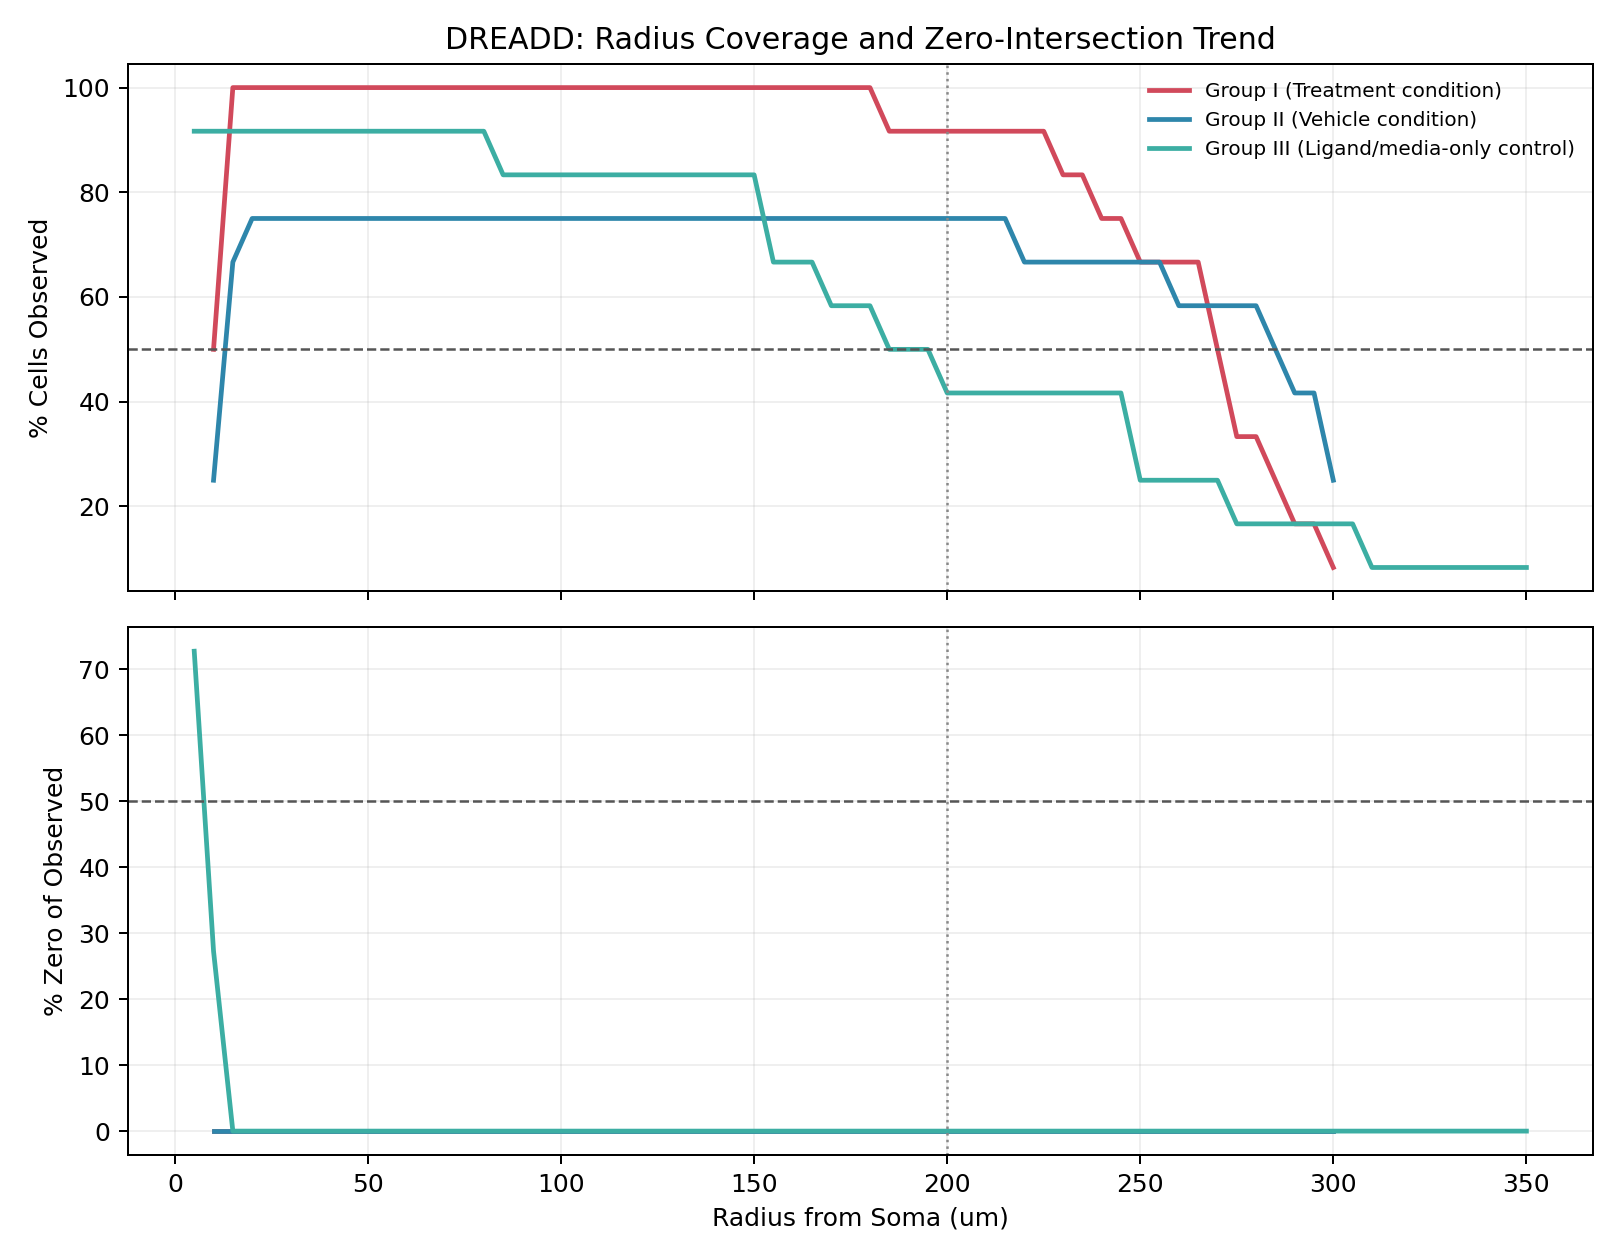
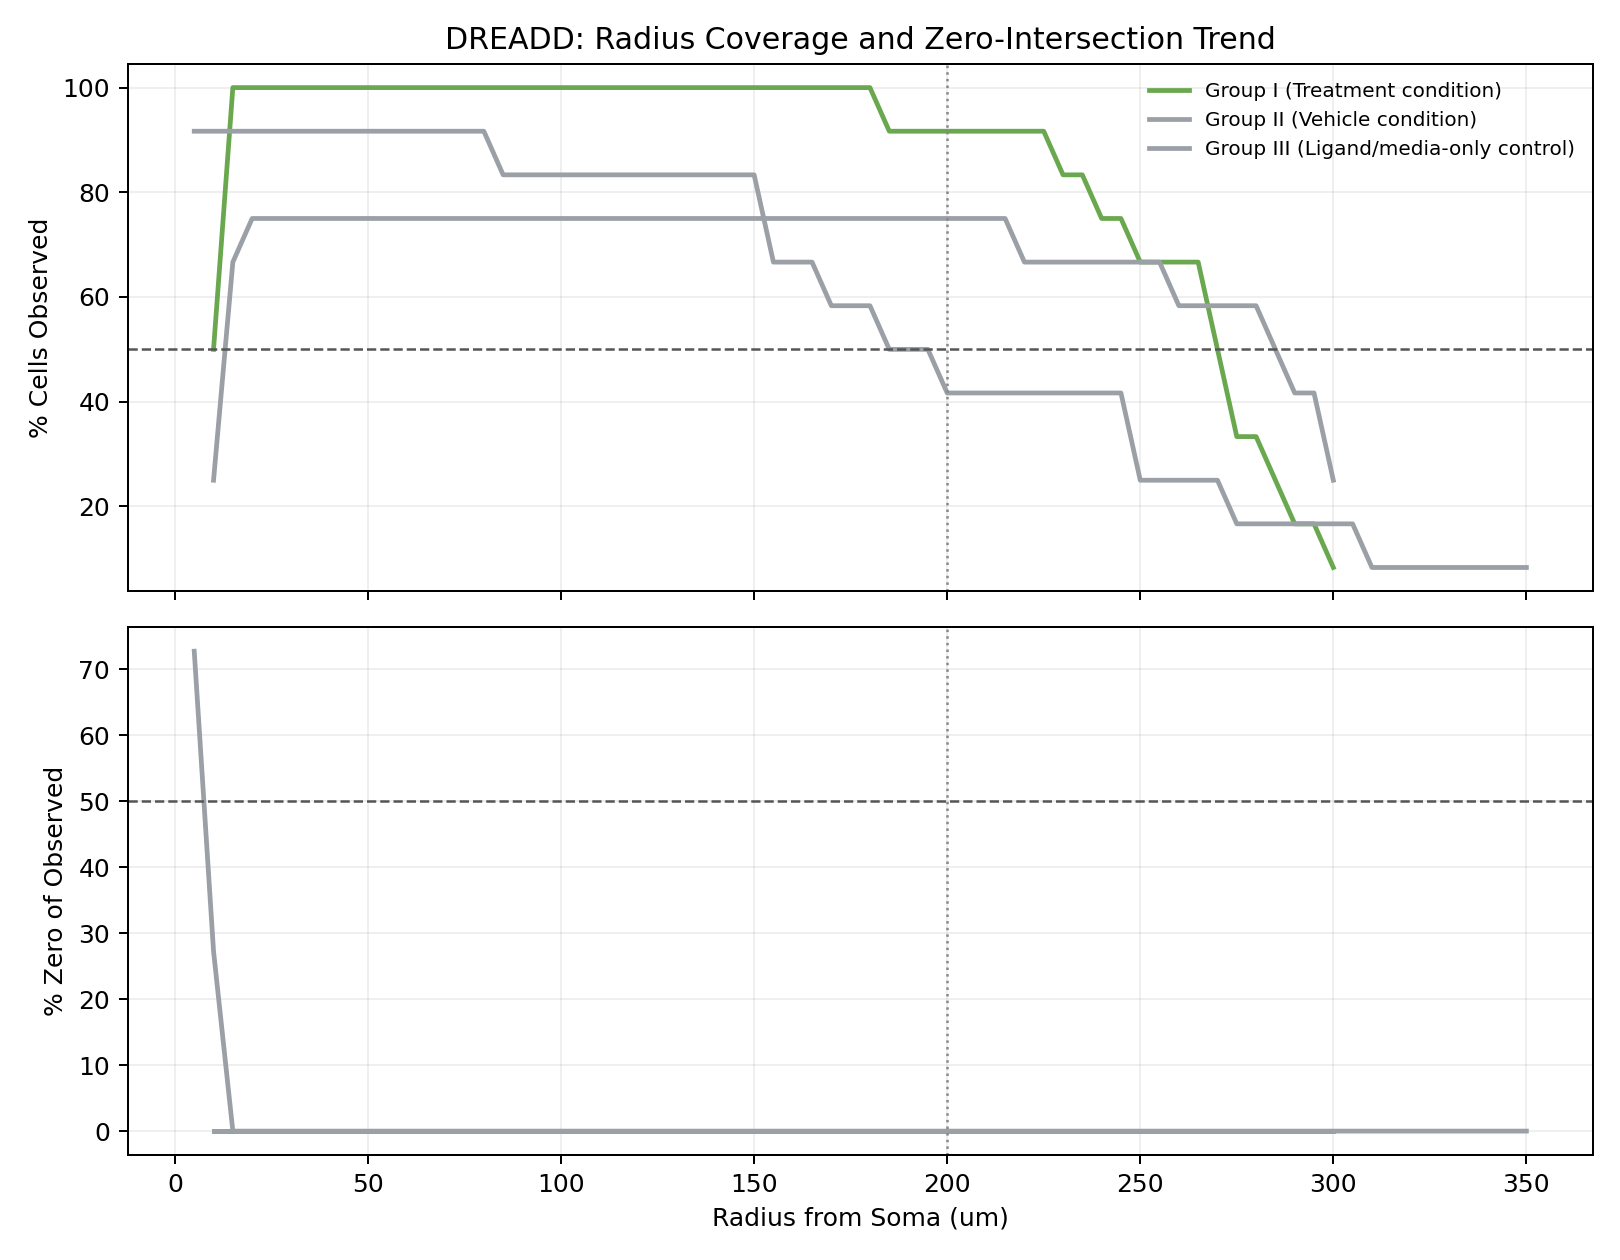
Refactor color handling for group comparisons and conditions in plotting scripts and ShollDataProcessor

diff --git a/src/chemogenetic_analysis/sholl_processor.py b/src/chemogenetic_analysis/sholl_processor.py
@@ -13,6 +13,17 @@ class ShollDataProcessor:
     GROUP_I_TREATMENT = "Group I (Treatment condition)"
     GROUP_II_VEHICLE = "Group II (Vehicle condition)"
     GROUP_III_LIGAND_MEDIA_CONTROL = "Group III (Ligand/media-only control)"
+    CONTROL_COLOR = "#9AA0A6"
+    CHEMOGENETIC_TOOL_COLORS = {
+        "DREADD_CNO": "#6AA84F",  # hM3Dq green
+        "LMO7_hCTZ": "#46B3C3",  # LMO7 cyan
+        "PSAM_uPSEM": "#8E7CC3",  # PSAM4-5HT3 purple
+    }
+    GROUP_COMPARISON_COLORS = {
+        GROUP_I_TREATMENT: "#C9A227",  # treatment gold; distinct from tool colors
+        GROUP_II_VEHICLE: CONTROL_COLOR,
+        GROUP_III_LIGAND_MEDIA_CONTROL: CONTROL_COLOR,
+    }
     DEFAULT_CONDITION_MAP = {
         "DREADD/CNO": "DREADD_CNO",
         "PSAM/uPSEM": "PSAM_uPSEM",
@@ -63,11 +74,6 @@ class ShollDataProcessor:
             GROUP_III_LIGAND_MEDIA_CONTROL: "None_Vehicle",
         },
     }
-    GROUP_COLORS = {
-        GROUP_I_TREATMENT: "#d1495b",
-        GROUP_II_VEHICLE: "#2e86ab",
-        GROUP_III_LIGAND_MEDIA_CONTROL: "#3caea3",
-    }
     GROUP_ORDER = [
         GROUP_I_TREATMENT,
         GROUP_II_VEHICLE,
@@ -77,6 +83,25 @@ class ShollDataProcessor:
     def __init__(self, csv_path: str | Path):
         self.csv_path = Path(csv_path)
         self._raw_df: pd.DataFrame | None = None
+
+    @classmethod
+    def color_for_condition(cls, condition: str) -> str:
+        """Return the locked display color for a study condition.
+
+        Only the active chemogenetic-tool conditions receive tool-specific colors.
+        Vehicle, EYFP, ligand/media-only, and all other control conditions are dark gray.
+        """
+        return cls.CHEMOGENETIC_TOOL_COLORS.get(condition, cls.CONTROL_COLOR)
+
+    @classmethod
+    def color_for_group_comparison(cls, analysis_group: str) -> str:
+        """Return the locked treatment-versus-control color for group plots.
+
+        This palette is intentionally separate from the per-technology palette:
+        treatment is gold, while both control groups are gray and differentiated
+        by marker shape.
+        """
+        return cls.GROUP_COMPARISON_COLORS.get(analysis_group, cls.CONTROL_COLOR)
 
     def load_csv(self) -> pd.DataFrame:
         """Load CSV from disk and return a copy of the raw dataframe."""
@@ -535,7 +560,7 @@ class ShollDataProcessor:
                 x = line_df["radius_um"] + group_offsets.get(group_name, 0.0)
                 y = line_df["mean_intersections"]
                 sem = line_df["sem_intersections"]
-                color = self.GROUP_COLORS.get(group_name, "#4c4c4c")
+                color = self.color_for_condition(condition_name)
                 label = f"{group_name}: {condition_name}"
 
                 ax.errorbar(
@@ -606,7 +631,8 @@ class ShollDataProcessor:
                 )
                 if group_df.empty:
                     continue
-                color = self.GROUP_COLORS.get(group_name, "#4c4c4c")
+                condition_name = self.TECHNOLOGY_CONDITIONS[technology][group_name]
+                color = self.color_for_condition(condition_name)
                 ax_cov.plot(
                     group_df["radius_um"],
                     group_df["pct_cells_observed"] * 100.0,

diff --git a/scripts/plot_three_subgroups_1x4.py b/scripts/plot_three_subgroups_1x4.py
@@ -101,7 +101,7 @@ def main() -> None:
             if line_df.empty:
                 continue
 
-            color = processor.GROUP_COLORS.get(group_name, "#4c4c4c")
+            color = processor.color_for_group_comparison(group_name)
             x = line_df["radius_um"] + group_offsets.get(group_name, 0.0)
             y = line_df["mean_intersections"]
             sem = line_df["sem_intersections"]
@@ -144,7 +144,7 @@ def main() -> None:
             [0],
             [0],
             marker=GROUP_MARKERS.get(group, "o"),
-            color=processor.GROUP_COLORS.get(group, "#4c4c4c"),
+            color=processor.color_for_group_comparison(group),
             linestyle="None",
             markersize=6,
             label=group,

diff --git a/scripts/plot_treatment_vs_vehicle_1x4.py b/scripts/plot_treatment_vs_vehicle_1x4.py
@@ -95,7 +95,7 @@ def main() -> None:
             if line_df.empty:
                 continue
 
-            color = processor.GROUP_COLORS.get(group_name, "#4c4c4c")
+            color = processor.color_for_group_comparison(group_name)
             x = line_df["radius_um"] + group_offsets.get(group_name, 0.0)
             y = line_df["mean_intersections"]
             sem = line_df["sem_intersections"]
@@ -136,7 +136,7 @@ def main() -> None:
             [0],
             [0],
             marker=GROUP_MARKERS.get(group, "o"),
-            color=processor.GROUP_COLORS.get(group, "#4c4c4c"),
+            color=processor.color_for_group_comparison(group),
             linestyle="None",
             markersize=6,
             label=group,

diff --git a/README.md b/README.md
@@ -42,6 +42,16 @@ that the EYFP vector control is chemogenetically activated:
 - Group II (Vehicle condition): actuator-vector or EYFP-vector without the Group-I treatment
 - Group III (Ligand/media-only control): ligand-only or media-only control without an actuator vector
 
+Color policy is locked across every figure:
+- hM3Dq/DREADD + CNO: green (`#6AA84F`)
+- LMO7 + hCTZ: cyan (`#46B3C3`)
+- PSAM4-5HT3 + uPSEM: purple (`#8E7CC3`)
+- all control conditions (vehicle, EYFP, ligand-only, and media-only): gray (`#9AA0A6`)
+
+The group-comparison figures use a separate palette and never reuse those
+technology colors: Group I treatment is gold (`#C9A227`), while Groups II and
+III are gray and are distinguished by marker shape.
+
 ## Plot Mean +/- SEM By Technology
 
 ```bash
